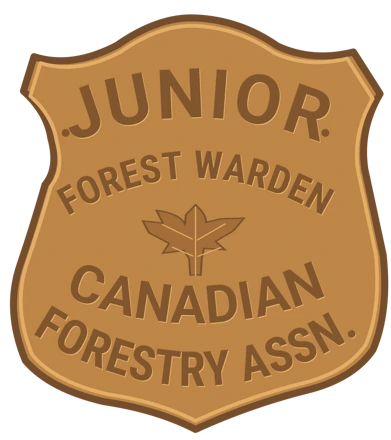
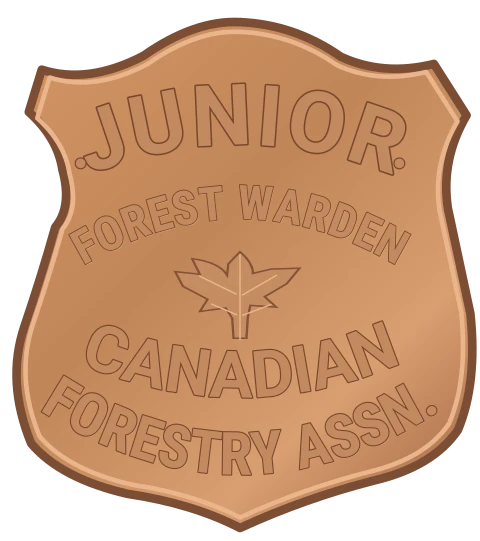
Correct the Junior Forest Warden badge to copper-toned metal

diff --git a/src/main.ts b/src/main.ts
@@ -909,7 +909,7 @@ function showLibraryOrg(orgId: string) {
     const b = document.createElement('button');
     b.className = 'sample';
     const variants = variantsOf(p);
-    b.title = `${cardLabel(p)} (${p.medium}${variants ? `, ${variants.members.length} variants` : ''})`;
+    b.title = `${cardLabel(p)} (${[p.medium, p.finish].filter(Boolean).join(' · ')}${variants ? `, ${variants.members.length} variants` : ''})`;
     b.dataset.src = LIBRARY_SOURCE + p.id;
     b.classList.toggle('on', !!current && cardOf(current).id === p.id);
     const img = document.createElement('img');

diff --git a/src/library.ts b/src/library.ts
@@ -27,6 +27,7 @@ export interface LibraryPatch {
   label: string;
   collection: string;
   medium: string;
+  finish?: string;
   quality: string;
   family: string;
   /** The atlas's own coarse affiliation, kept for reference. */

diff --git a/library/README.md b/library/README.md
@@ -81,7 +81,7 @@ A stored `<org>/<id>.svg` is not the whole drawing on its own, so don't serve it
 
 `orgs.json` has two more lists before the organizations:
 
-- `collections`: **patches**, and **badges** (metal and leather, by medium). Both appear in the collection picker.
+- `collections`: **patches**, and **badges** (classified by medium). Both appear in the collection picker.
   A direct link such as `?patch=S02-O01` opens the design and selects its collection and organization.
 - `exclude`: atlas designs to leave out, by id, with a reason. An organization can also carry
   `"exclude": "<reason>"`, which leaves out everything filed under it (Province of British Columbia,
@@ -107,6 +107,7 @@ preview, quality line and limitations:
 
 | Design | Drawing |
 |---|---|
+| S01-O01 Junior Forest Warden | `supplied/junior-forest-warden/` corrects the material to metal and models the warm copper finish from source photograph S01. The alloy is unverified. |
 | S25-O01 Parks Branch elk roundel | `supplied/bc-parks-branch-elk-roundel/`: a supplied vector package, used whole |
 | S31-O01 Recreation and Conservation / Parks | `supplied/bc-parks-recreation-conservation/`: a supplied vector package, used whole |
 | S30-O04, S27-O04 scenic arch, Parks and Parks · Ranger | `supplied/bc-parks-scenic-arch/`: the atlas arch and lettering with a supplied landscape in the window (`compose.mjs`) |

diff --git a/README.md b/README.md
@@ -20,8 +20,8 @@ The **Patch and badge library** groups designs from the BC Forestry Patch Atlas 
 Choose a collection, then an organization such as BC Forest Service, BC Parks or BC Sheriff Service.
 The patch collection has 126 cards covering 154 designs and variants. Related designs share a card.
 For example, the Forest Service and Wildfire Service ovals use PofBC's Forest Oval artwork with a
-switch for their colourways. The badge collection has 14 cards covering 13 metal badges and one
-leather badge. Opening a badge in Patcher previews it as embroidery.
+switch for their colourways. The badge collection has 14 cards covering 14 metal badges, including the copper-toned
+Junior Forest Warden shield. Opening a badge in Patcher previews it as embroidery.
 `?patch=<id>` opens one directly (e.g. `?patch=S25-O01`), and an atlas id that was merged or replaced opens
 the patch that took its place. [`library/README.md`](library/README.md) says where the patches come
 from, how they are grouped, how repeated crests and outlines are stored once (29 MB of drawings in
